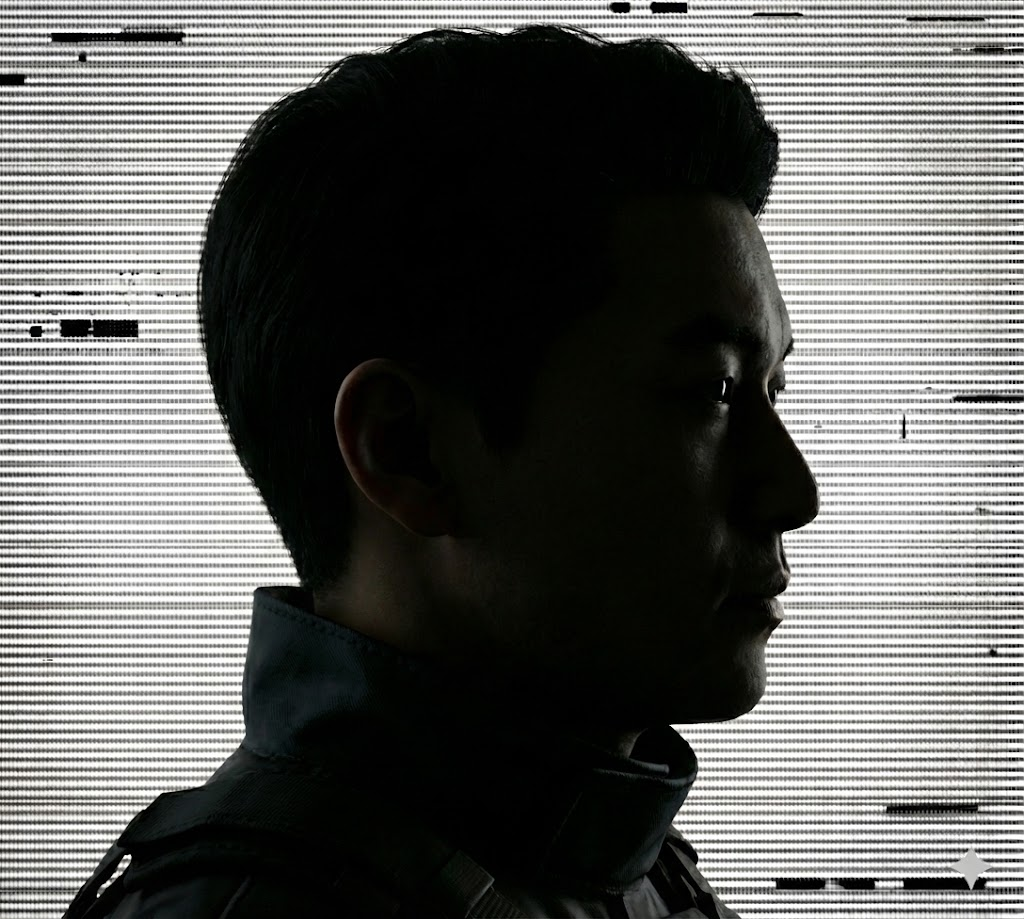
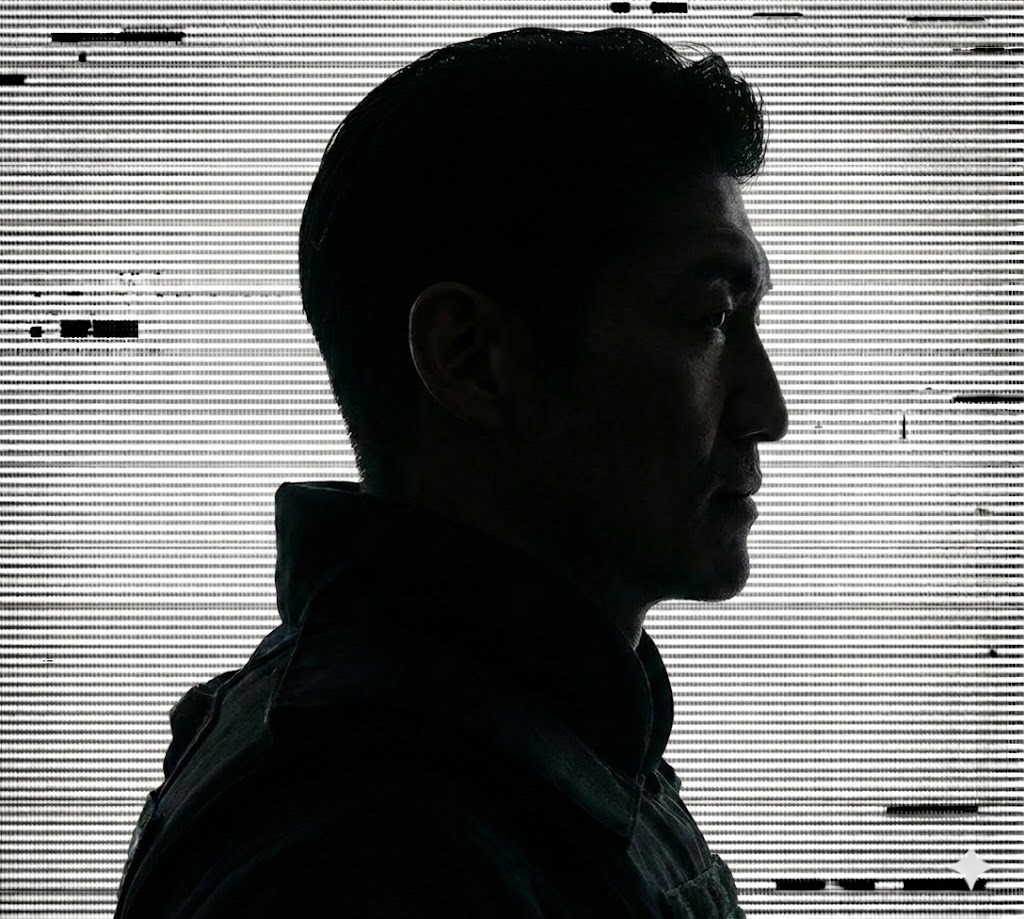
Update agent-ji dossier and asset images
Replaced the header name in agent-ji.html from 'LIN JI' to 'JACKAL' and updated the associated Dust.png and Jackal.jpg asset images. These changes reflect a dossier update for the agent.

diff --git a/public/db/agent-ji.html b/public/db/agent-ji.html
@@ -27,7 +27,7 @@
             
             <header class="header-strip">
                 <div>
-                    <h1>DOSSIER :: <span>LIN JI</span></h1>
+                    <h1>DOSSIER :: <span>JACKAL</span></h1>
                     <div style="color: var(--primary); font-size: 0.9rem; letter-spacing: 3px;">SHADOW COMPANY // ASSET</div>
                 </div>
                 <div class="meta-data">
